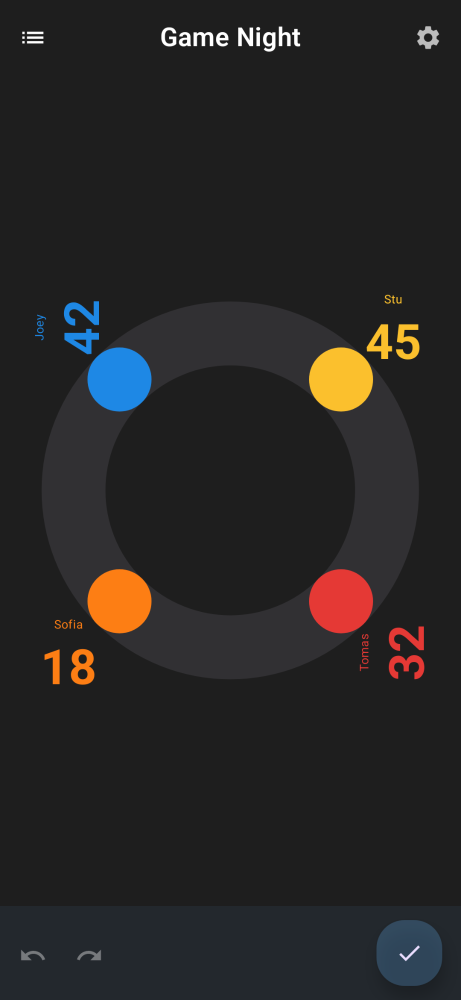
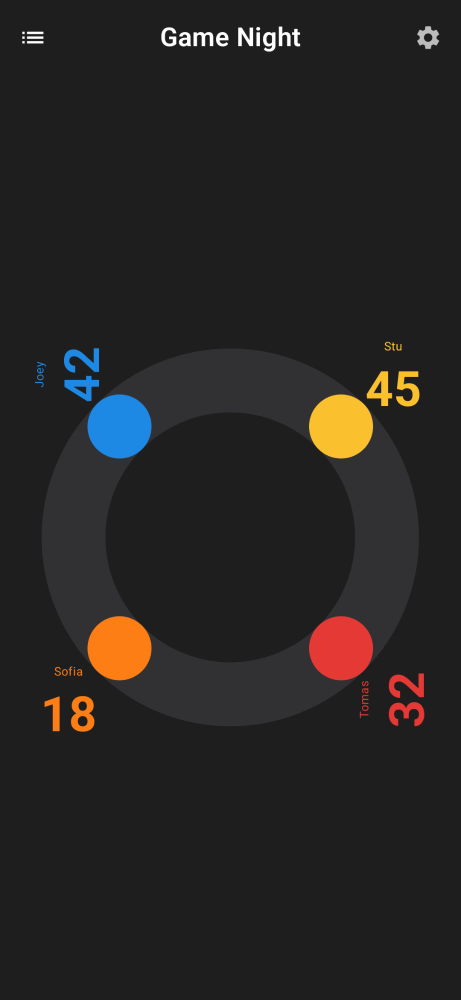
Dual-theme README with both screenshot sets

diff --git a/app/src/test/java/com/simplescoring/android/ScreenshotsTest.kt b/app/src/test/java/com/simplescoring/android/ScreenshotsTest.kt
@@ -1,6 +1,7 @@
 package com.simplescoring.android
 
 import androidx.compose.runtime.mutableStateListOf
+import androidx.compose.runtime.mutableStateOf
 import app.cash.paparazzi.DeviceConfig.Companion.PIXEL_5
 import app.cash.paparazzi.Paparazzi
 import com.simplescoring.android.model.Game
@@ -8,12 +9,14 @@ import com.simplescoring.android.model.Player
 import com.simplescoring.android.model.Rotation
 import com.simplescoring.android.model.ScoreEntry
 import com.simplescoring.android.model.WinMetric
-import com.simplescoring.android.ui.PlayerSetupScreenimport com.simplescoring.android.ui.ScoreHistoryScreen
+import com.simplescoring.android.ui.PlayerSetupScreen
+import com.simplescoring.android.ui.ScoreHistoryScreen
 import com.simplescoring.android.ui.ScoreboardScreen
 import com.simplescoring.android.ui.SettingsScreen
 import com.simplescoring.android.ui.theme.ScoreAnythingColors
 import com.simplescoring.android.ui.theme.ScoreAnythingTheme
 import com.simplescoring.android.viewmodel.ScoreViewModel
+import com.simplescoring.android.viewmodel.ThemeMode
 import org.junit.Rule
 import org.junit.Test
 import org.mockito.Mockito
@@ -53,6 +56,7 @@ class ScreenshotsTest {
         val vm = Mockito.mock(ScoreViewModel::class.java)
         Mockito.`when`(vm.undoStack).thenReturn(mutableStateListOf(*undo))
         Mockito.`when`(vm.redoStack).thenReturn(mutableStateListOf())
+        Mockito.`when`(vm.themeMode).thenReturn(mutableStateOf(ThemeMode.SYSTEM))
         return vm
     }
 

diff --git a/README.md b/README.md
@@ -1,24 +1,40 @@
 # Simple Scoring
 
-An Android-native scorekeeper for board games and casual play, built with
-the Material 3 Expressive design language: dynamic color, expressive shapes
-and type, springy motion, bottom app bars, and extended FABs.
-
-The tabletop scoreboard keeps every player visible at once — each player is
-a colored dot on a ring, scores sit out by the screen edges facing their
+An Android-native scorekeeper for board games and casual play. Every player
+is a colored dot on a ring, scores sit out by the screen edges facing their
 player, and points are kept with a circular rotary-dial gesture that unwinds
 with a spring return.
+
+The app comes in two visual versions:
+
+## iPhone theme
+
+The tabletop look: dark board, tonal menus.
+
+| Scoreboard | Swipe scoring | Setup |
+| --- | --- | --- |
+| ![iPhone scoreboard](docs/ios-scoreboard.png) | ![iPhone swipe scoring](docs/ios-swipe.png) | ![iPhone setup](docs/ios-settings.png) |
+
+Get it from the [v0.3-iphone release](https://github.com/hannad4/simple-scoring/releases/tag/v0.3-iphone).
+
+## Material Expressive theme
+
+Native Android Material 3 Expressive design: dynamic color, expressive
+shapes and type, springy motion, bottom app bars, segmented controls, and
+light mode that follows the OS theme.
 
 | Scoreboard | Settings | Score history |
 | --- | --- | --- |
 | ![Scoreboard](docs/board.png) | ![Settings](docs/settings.png) | ![Score history](docs/history.png) |
+
+Get it from the [v0.4 release](https://github.com/hannad4/simple-scoring/releases/tag/v0.4).
 
 ## Features
 
 - 1–12 players with custom names and 24 dot colors
 - Rotary swipe scoring: full turn = 10× step, either direction
 - Tap a score to rotate it toward its player; tap a dot for quick +step
-- Undo / redo, per-game score history, saved scoreboards
+- Undo / redo with a per-game score ledger
 - Highest- or lowest-wins, adjustable step, Material You dynamic color
 
 ## Technical
